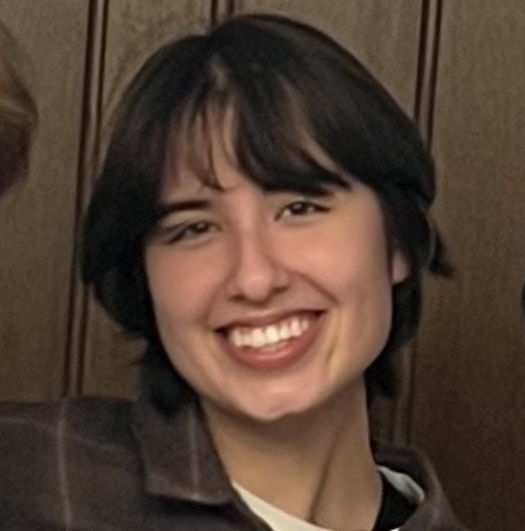
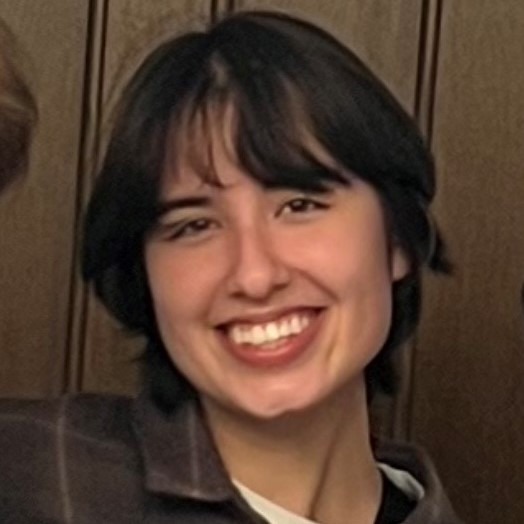
new member

diff --git a/team.html b/team.html
@@ -122,6 +122,13 @@
                 <div class="profile-email">micah.greyeyes@yale.edu</div>
             </div>
 
+            <div class="profile-card">
+                <img src="static/images/team/david_garsten.jpeg">
+                <div class="profile-name">David Garsten</div>
+                <div class="profile-role">Programming / Art</div>
+                <div class="profile-email">david.garsten@yale.edu</div>
+            </div>
+
         </div>
     </div>
 </body>
